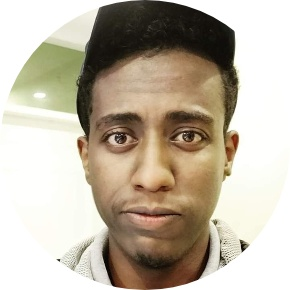
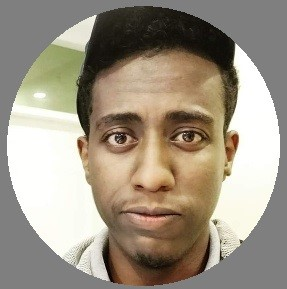
Deleting unwanted pictures

diff --git a/contactme.html b/contactme.html
@@ -4,7 +4,7 @@
     <meta charset="UTF-8">
     <meta name="viewport" content="width=device-width, initial-scale=1.0">
     <title>Contact Me</title>
-    <link rel="icon" href="./assets/images/mua.jpg">
+    <link rel="icon" href="./assets/images/rounded_corners.jpg">
 </head>
 <body text="#181899">
     <table align="center" cellpadding="30px">
@@ -24,11 +24,7 @@
                     <img src="./assets/images/zone.jpg" alt="contact" >
                     </td>
                     <td>
-                        Check out my telegram channel : <br> <a href="https://t.me/fictionland" target="_blank">FictionLand</a>
-                        <details>
-                            <summary>Rate the website?</summary>
-                                <input type="range" name="rag" id="rag" min="0" max="5" step="1" value="2">
-                        </details>
+                        Check out my telegram channel : <br> <a href="https://t.me/fictionland" title="this is an external link that will take you to telegram" target="_blank">FictionLand</a>
                     </td>
                 </tr>
                 <tr>
@@ -99,6 +95,14 @@
                         </fieldset>
                     </details>
                     </td>
+                </tr>
+                <tr>
+                    <td>
+                    <details>
+                        <summary>Rate the website?</summary>
+                            <input type="range" name="rag" id="rag" min="0" max="5" step="1" value="2">
+                    </details>
+                </td>
                 </tr>
             </table>
         </form>

diff --git a/notes.html b/notes.html
@@ -4,7 +4,7 @@
     <meta charset="UTF-8">
     <meta name="viewport" content="width=device-width, initial-scale=1.0">
     <title>Summaries, Notes and Reviews</title>
-    <link rel="icon" href="./assets/images/mua.jpg">
+    <link rel="icon" href="./assets/images/rounded_corners.jpg">
 </head>
 <body align="center">
     <table align="center" cellpadding="30px">

diff --git a/index.html b/index.html
@@ -4,7 +4,7 @@
     <meta charset="UTF-8">
     <meta name="viewport" content="width=device-width, initial-scale=1.0">
     <title>Abel Mesele</title>
-    <link rel="icon" href="./assets/images/mua.jpg">
+    <link rel="icon" href="./assets/images/rounded_corners.jpg">
 </head>
 <body align="center">
     <table align="center" cellpadding="30px">

diff --git a/mastery.html b/mastery.html
@@ -4,7 +4,7 @@
     <meta charset="UTF-8">
     <meta name="viewport" content="width=device-width, initial-scale=1.0">
     <title>Inspiration</title>
-    <link rel="icon" href="./assets/images/mua.jpg">
+    <link rel="icon" href="./assets/images/rounded_corners.jpg">
 </head>
 <body align="center">
     <table align="center" cellpadding="30px">
